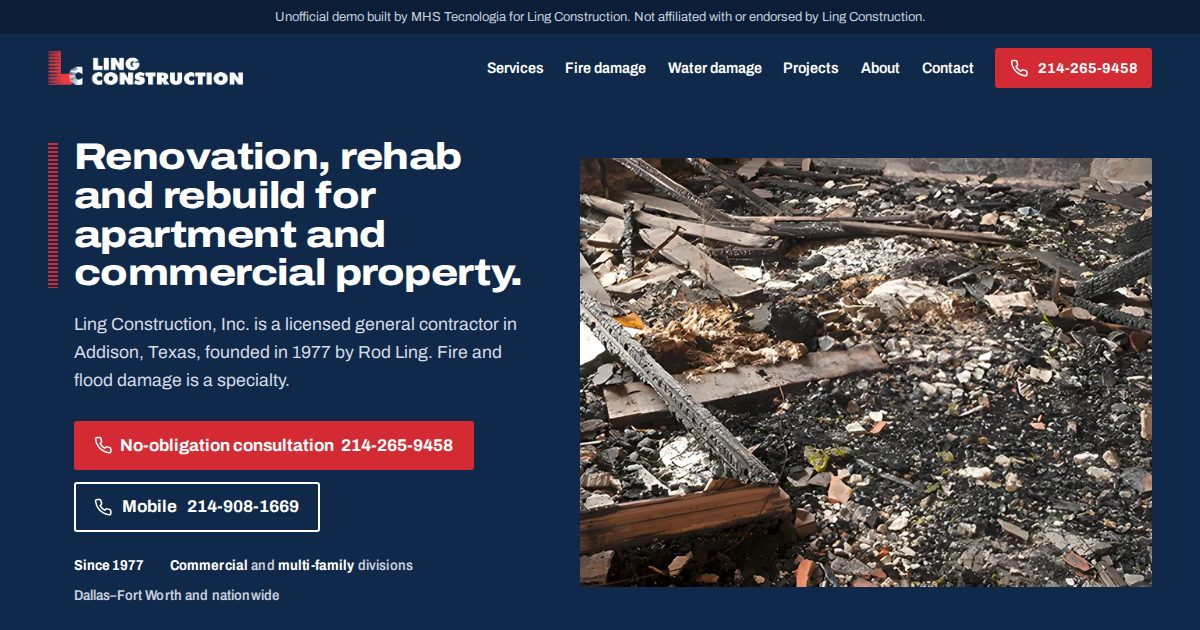
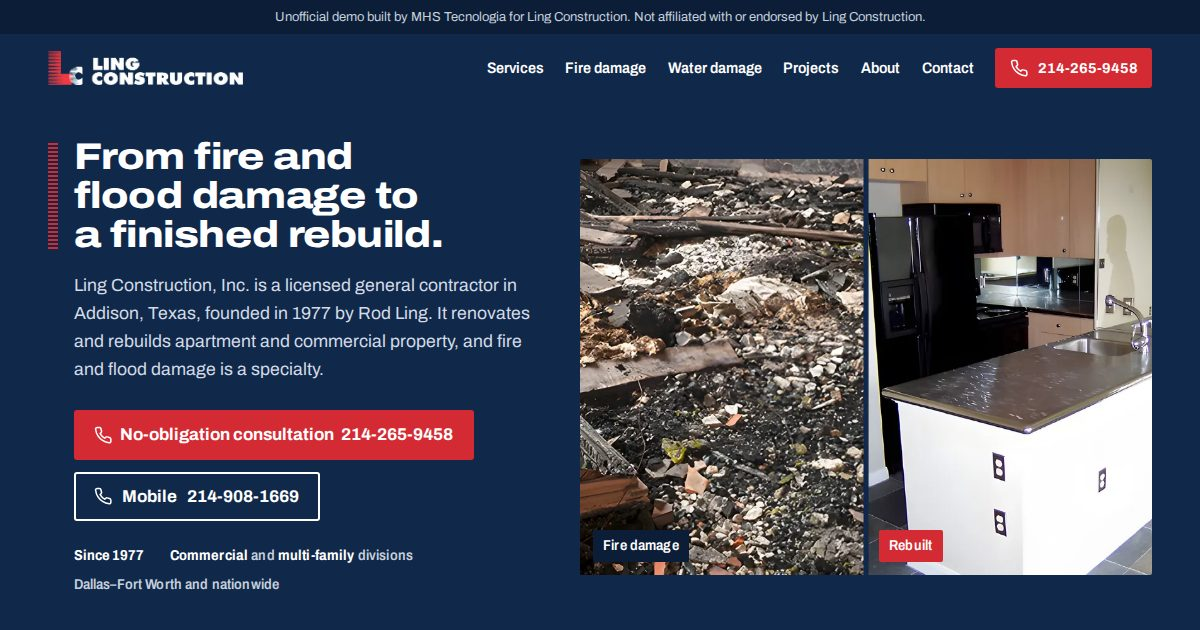
Previews: 86 ativos

diff --git a/ling-construction-addison-tx/index.html b/ling-construction-addison-tx/index.html
@@ -10,7 +10,7 @@
 <meta name="description" content="Licensed general contracting and renovation in Dallas–Fort Worth since 1977: commercial and multi-family rehab, fire and flood damage restoration.">
 <link rel="preload" as="font" type="font/woff2" href="fonts/archivo.woff2" crossorigin>
 <link rel="preload" as="image" media="(max-width: 960px)" href="img/hero-m-800.webp" imagesrcset="img/hero-m-600.webp 600w, img/hero-m-800.webp 800w" imagesizes="100vw" fetchpriority="high">
-<link rel="preload" as="image" media="(min-width: 961px)" href="img/hero-960.webp" imagesrcset="img/hero-800.webp 800w, img/hero-960.webp 960w" imagesizes="42rem" fetchpriority="high">
+<link rel="preload" as="image" media="(min-width: 961px)" href="img/hero-908.webp" imagesrcset="img/hero-640.webp 640w, img/hero-908.webp 908w" imagesizes="42rem" fetchpriority="high">
 <style>
 @font-face { font-family: "Archivo"; font-weight: 100 900; font-stretch: 62% 125%; font-display: swap; src: url(fonts/archivo.woff2) format("woff2"); }
 
@@ -70,14 +70,17 @@ p { max-width: 64ch; }
 .hero .wrap { display: grid; grid-template-columns: minmax(0, 11fr) minmax(0, 13fr); grid-template-areas: "h fig" "c fig"; column-gap: clamp(1.5rem, 4vw, 3.5rem); row-gap: 0; align-items: center; }
 .hero-h { grid-area: h; align-self: end; position: relative; padding-left: 1.6rem; }
 .hero-h::before { content: ""; position: absolute; left: 0; top: .3rem; bottom: .3rem; width: .6rem; background: var(--stripes); }
-.hero-fig { grid-area: fig; }
+.hero-fig { grid-area: fig; position: relative; }
+.hero-fig .tag { position: absolute; bottom: .8rem; background: var(--navy-2); color: #fff; padding: .3rem .65rem; border-radius: 2px; }
+.hero-fig .tag.l { left: .8rem; }
+.hero-fig .tag.r { left: calc(50% + .8rem); background: var(--red); }
 .hero-copy { grid-area: c; align-self: start; }
 .btn.wrapme { flex-wrap: wrap; text-align: center; column-gap: .45rem; }
 .hero-copy { position: relative; padding-left: 1.6rem; }
 .hero h1 { font-size: clamp(2rem, 3.1vw, 2.75rem); }
 .lede { margin-top: 1.1rem; color: #d3dbe6; font-size: 1.1rem; }
 .ctas { display: flex; flex-wrap: wrap; gap: .75rem; margin-top: 1.6rem; }
-.hero-fig img { width: 100%; aspect-ratio: 4 / 3; object-fit: cover; border-radius: 2px; }
+.hero-fig img { width: 100%; height: auto; border-radius: 2px; }
 .hero-fig figcaption { margin-top: .6rem; color: #a9b6c7; }
 .facts { display: flex; flex-wrap: wrap; gap: .4rem 1.6rem; margin-top: 1.4rem; color: #c6d0dd; padding: 0; list-style: none; }
 .facts strong { color: #fff; font-weight: 700; }
@@ -217,7 +220,9 @@ details.more-photos[open] summary { margin-bottom: .75rem; }
 
 /* Mobile call bar after the hero */
 .bar { position: fixed; left: 0; right: 0; bottom: 0; z-index: 9; display: none; gap: .5rem; padding: .6rem var(--pad) calc(.6rem + env(safe-area-inset-bottom)); background: var(--navy); box-shadow: 0 -1px 0 var(--navy-3); }
-.bar .btn { flex: 1; min-height: 2.9rem; font-size: .9rem; padding: .5rem .6rem; line-height: 1.2; }
+.bar .btn { flex: 1; min-height: 2.9rem; font-size: .95rem; padding: .5rem .6rem; line-height: 1.2; white-space: nowrap; gap: .45rem; }
+.bar .bar-s { display: none; }
+@media (max-width: 480px) { .bar .bar-l { display: none; } .bar .bar-s { display: inline; } }
 
 @media (max-width: 960px) {
   .nav > a:not(.btn) { display: none; }
@@ -300,12 +305,12 @@ details.more-photos[open] summary { margin-bottom: .75rem; }
 <main id="main">
 <section class="hero" data-bar>
   <div class="wrap">
-    <h1 class="hero-h">Renovation, rehab and rebuild for apartment and commercial property.</h1>
+    <h1 class="hero-h">From fire and flood damage to a finished rebuild.</h1>
     <figure class="hero-fig">
-      <picture><source media="(max-width: 960px)" srcset="img/hero-m-600.webp 600w, img/hero-m-800.webp 800w" sizes="100vw" width="800" height="500"><img src="img/hero-800.webp" srcset="img/hero-800.webp 800w, img/hero-960.webp 960w" sizes="(max-width: 960px) 100vw, 42rem" width="960" height="660" alt="Charred framing and debris after a fire, from Ling Construction’s fire damage page" fetchpriority="high"></picture>
+      <picture><source media="(max-width: 960px)" srcset="img/hero-m-600.webp 600w, img/hero-m-800.webp 800w" sizes="100vw" width="800" height="500"><img src="img/hero-640.webp" srcset="img/hero-640.webp 640w, img/hero-908.webp 908w" sizes="(max-width: 960px) 100vw, 42rem" width="908" height="660" alt="Left, charred debris after a fire. Right, a rebuilt kitchen. Two photos from Ling Construction’s website." fetchpriority="high"></picture><span class="tag l small" aria-hidden="true">Fire damage</span><span class="tag r small" aria-hidden="true">Rebuilt</span>
     </figure>
     <div class="hero-copy">
-      <p class="lede">Ling Construction, Inc. is a licensed general contractor in Addison, Texas, founded in 1977 by Rod Ling. Fire and flood damage is a specialty.</p>
+      <p class="lede">Ling Construction, Inc. is a licensed general contractor in Addison, Texas, founded in 1977 by Rod Ling. It renovates and rebuilds apartment and commercial property, and fire and flood damage is a specialty.</p>
       <div class="ctas"><a class="btn wrapme" href="tel:+12142659458"><svg viewBox="0 0 24 24" aria-hidden="true" fill="none" stroke="currentColor" stroke-width="2" stroke-linecap="round" stroke-linejoin="round"><path d="M22 16.9v3a2 2 0 0 1-2.2 2 19.8 19.8 0 0 1-8.6-3.1 19.5 19.5 0 0 1-6-6A19.8 19.8 0 0 1 2.1 4.2 2 2 0 0 1 4.1 2h3a2 2 0 0 1 2 1.7c.1 1 .4 1.9.7 2.8a2 2 0 0 1-.5 2.1L8 9.9a16 16 0 0 0 6 6l1.3-1.3a2 2 0 0 1 2.1-.4c.9.3 1.8.6 2.8.7a2 2 0 0 1 1.7 2z"/></svg><span>No-obligation consultation</span> <span class="num">214-265-9458</span></a><a class="btn line" href="tel:+12149081669"><svg viewBox="0 0 24 24" aria-hidden="true" fill="none" stroke="currentColor" stroke-width="2" stroke-linecap="round" stroke-linejoin="round"><path d="M22 16.9v3a2 2 0 0 1-2.2 2 19.8 19.8 0 0 1-8.6-3.1 19.5 19.5 0 0 1-6-6A19.8 19.8 0 0 1 2.1 4.2 2 2 0 0 1 4.1 2h3a2 2 0 0 1 2 1.7c.1 1 .4 1.9.7 2.8a2 2 0 0 1-.5 2.1L8 9.9a16 16 0 0 0 6 6l1.3-1.3a2 2 0 0 1 2.1-.4c.9.3 1.8.6 2.8.7a2 2 0 0 1 1.7 2z"/></svg>Mobile <span class="num">214-908-1669</span></a></div>
       <ul class="facts small"><li><strong>Since 1977</strong></li><li><strong>Commercial</strong> and <strong>multi-family</strong> divisions</li><li>Dallas–Fort Worth and nationwide</li></ul>
     </div>
@@ -469,7 +474,7 @@ details.more-photos[open] summary { margin-bottom: .75rem; }
     <p class="legal">Unofficial demo built by MHS Tecnologia, not affiliated with or endorsed by Ling Construction. Text and photos come from Ling Construction’s public website. Removed on request: <a href="mailto:contato@mhstecnologia.com.br">contato@mhstecnologia.com.br</a></p>
   </div>
 </footer>
-<div class="bar" id="bar"><a class="btn" href="tel:+12142659458"><svg viewBox="0 0 24 24" aria-hidden="true" fill="none" stroke="currentColor" stroke-width="2" stroke-linecap="round" stroke-linejoin="round"><path d="M22 16.9v3a2 2 0 0 1-2.2 2 19.8 19.8 0 0 1-8.6-3.1 19.5 19.5 0 0 1-6-6A19.8 19.8 0 0 1 2.1 4.2 2 2 0 0 1 4.1 2h3a2 2 0 0 1 2 1.7c.1 1 .4 1.9.7 2.8a2 2 0 0 1-.5 2.1L8 9.9a16 16 0 0 0 6 6l1.3-1.3a2 2 0 0 1 2.1-.4c.9.3 1.8.6 2.8.7a2 2 0 0 1 1.7 2z"/></svg><span>No-obligation consultation <span class="num">214-265-9458</span></span></a><a class="btn line" href="mailto:rling@lingconstructioninc.com" style="color:#fff;flex:0 0 3.2rem" aria-label="Send an email"><svg viewBox="0 0 24 24" aria-hidden="true" fill="none" stroke="currentColor" stroke-width="2" stroke-linecap="round" stroke-linejoin="round"><rect x="2" y="4" width="20" height="16" rx="2"/><path d="m22 6-10 7L2 6"/></svg></a></div>
+<div class="bar" id="bar"><a class="btn" href="tel:+12142659458" aria-label="Call for a no-obligation consultation, 214-265-9458"><svg viewBox="0 0 24 24" aria-hidden="true" fill="none" stroke="currentColor" stroke-width="2" stroke-linecap="round" stroke-linejoin="round"><path d="M22 16.9v3a2 2 0 0 1-2.2 2 19.8 19.8 0 0 1-8.6-3.1 19.5 19.5 0 0 1-6-6A19.8 19.8 0 0 1 2.1 4.2 2 2 0 0 1 4.1 2h3a2 2 0 0 1 2 1.7c.1 1 .4 1.9.7 2.8a2 2 0 0 1-.5 2.1L8 9.9a16 16 0 0 0 6 6l1.3-1.3a2 2 0 0 1 2.1-.4c.9.3 1.8.6 2.8.7a2 2 0 0 1 1.7 2z"/></svg><span class="bar-l">No-obligation consultation</span><span class="bar-s">Consultation</span> <span class="num">214-265-9458</span></a><a class="btn line" href="mailto:rling@lingconstructioninc.com" style="color:#fff;flex:0 0 3.2rem" aria-label="Send an email"><svg viewBox="0 0 24 24" aria-hidden="true" fill="none" stroke="currentColor" stroke-width="2" stroke-linecap="round" stroke-linejoin="round"><rect x="2" y="4" width="20" height="16" rx="2"/><path d="m22 6-10 7L2 6"/></svg></a></div>
 <script>
 (function(){var d=document.documentElement;d.className+=' js';
 var bar=document.getElementById('bar'),t=document.querySelector('[data-bar]');

diff --git a/ling-construction-addison-tx/about.html b/ling-construction-addison-tx/about.html
@@ -69,14 +69,17 @@ p { max-width: 64ch; }
 .hero .wrap { display: grid; grid-template-columns: minmax(0, 11fr) minmax(0, 13fr); grid-template-areas: "h fig" "c fig"; column-gap: clamp(1.5rem, 4vw, 3.5rem); row-gap: 0; align-items: center; }
 .hero-h { grid-area: h; align-self: end; position: relative; padding-left: 1.6rem; }
 .hero-h::before { content: ""; position: absolute; left: 0; top: .3rem; bottom: .3rem; width: .6rem; background: var(--stripes); }
-.hero-fig { grid-area: fig; }
+.hero-fig { grid-area: fig; position: relative; }
+.hero-fig .tag { position: absolute; bottom: .8rem; background: var(--navy-2); color: #fff; padding: .3rem .65rem; border-radius: 2px; }
+.hero-fig .tag.l { left: .8rem; }
+.hero-fig .tag.r { left: calc(50% + .8rem); background: var(--red); }
 .hero-copy { grid-area: c; align-self: start; }
 .btn.wrapme { flex-wrap: wrap; text-align: center; column-gap: .45rem; }
 .hero-copy { position: relative; padding-left: 1.6rem; }
 .hero h1 { font-size: clamp(2rem, 3.1vw, 2.75rem); }
 .lede { margin-top: 1.1rem; color: #d3dbe6; font-size: 1.1rem; }
 .ctas { display: flex; flex-wrap: wrap; gap: .75rem; margin-top: 1.6rem; }
-.hero-fig img { width: 100%; aspect-ratio: 4 / 3; object-fit: cover; border-radius: 2px; }
+.hero-fig img { width: 100%; height: auto; border-radius: 2px; }
 .hero-fig figcaption { margin-top: .6rem; color: #a9b6c7; }
 .facts { display: flex; flex-wrap: wrap; gap: .4rem 1.6rem; margin-top: 1.4rem; color: #c6d0dd; padding: 0; list-style: none; }
 .facts strong { color: #fff; font-weight: 700; }
@@ -216,7 +219,9 @@ details.more-photos[open] summary { margin-bottom: .75rem; }
 
 /* Mobile call bar after the hero */
 .bar { position: fixed; left: 0; right: 0; bottom: 0; z-index: 9; display: none; gap: .5rem; padding: .6rem var(--pad) calc(.6rem + env(safe-area-inset-bottom)); background: var(--navy); box-shadow: 0 -1px 0 var(--navy-3); }
-.bar .btn { flex: 1; min-height: 2.9rem; font-size: .9rem; padding: .5rem .6rem; line-height: 1.2; }
+.bar .btn { flex: 1; min-height: 2.9rem; font-size: .95rem; padding: .5rem .6rem; line-height: 1.2; white-space: nowrap; gap: .45rem; }
+.bar .bar-s { display: none; }
+@media (max-width: 480px) { .bar .bar-l { display: none; } .bar .bar-s { display: inline; } }
 
 @media (max-width: 960px) {
   .nav > a:not(.btn) { display: none; }
@@ -351,7 +356,7 @@ details.more-photos[open] summary { margin-bottom: .75rem; }
     <p class="legal">Unofficial demo built by MHS Tecnologia, not affiliated with or endorsed by Ling Construction. Text and photos come from Ling Construction’s public website. Removed on request: <a href="mailto:contato@mhstecnologia.com.br">contato@mhstecnologia.com.br</a></p>
   </div>
 </footer>
-<div class="bar" id="bar"><a class="btn" href="tel:+12142659458"><svg viewBox="0 0 24 24" aria-hidden="true" fill="none" stroke="currentColor" stroke-width="2" stroke-linecap="round" stroke-linejoin="round"><path d="M22 16.9v3a2 2 0 0 1-2.2 2 19.8 19.8 0 0 1-8.6-3.1 19.5 19.5 0 0 1-6-6A19.8 19.8 0 0 1 2.1 4.2 2 2 0 0 1 4.1 2h3a2 2 0 0 1 2 1.7c.1 1 .4 1.9.7 2.8a2 2 0 0 1-.5 2.1L8 9.9a16 16 0 0 0 6 6l1.3-1.3a2 2 0 0 1 2.1-.4c.9.3 1.8.6 2.8.7a2 2 0 0 1 1.7 2z"/></svg><span>No-obligation consultation <span class="num">214-265-9458</span></span></a><a class="btn line" href="mailto:rling@lingconstructioninc.com" style="color:#fff;flex:0 0 3.2rem" aria-label="Send an email"><svg viewBox="0 0 24 24" aria-hidden="true" fill="none" stroke="currentColor" stroke-width="2" stroke-linecap="round" stroke-linejoin="round"><rect x="2" y="4" width="20" height="16" rx="2"/><path d="m22 6-10 7L2 6"/></svg></a></div>
+<div class="bar" id="bar"><a class="btn" href="tel:+12142659458" aria-label="Call for a no-obligation consultation, 214-265-9458"><svg viewBox="0 0 24 24" aria-hidden="true" fill="none" stroke="currentColor" stroke-width="2" stroke-linecap="round" stroke-linejoin="round"><path d="M22 16.9v3a2 2 0 0 1-2.2 2 19.8 19.8 0 0 1-8.6-3.1 19.5 19.5 0 0 1-6-6A19.8 19.8 0 0 1 2.1 4.2 2 2 0 0 1 4.1 2h3a2 2 0 0 1 2 1.7c.1 1 .4 1.9.7 2.8a2 2 0 0 1-.5 2.1L8 9.9a16 16 0 0 0 6 6l1.3-1.3a2 2 0 0 1 2.1-.4c.9.3 1.8.6 2.8.7a2 2 0 0 1 1.7 2z"/></svg><span class="bar-l">No-obligation consultation</span><span class="bar-s">Consultation</span> <span class="num">214-265-9458</span></a><a class="btn line" href="mailto:rling@lingconstructioninc.com" style="color:#fff;flex:0 0 3.2rem" aria-label="Send an email"><svg viewBox="0 0 24 24" aria-hidden="true" fill="none" stroke="currentColor" stroke-width="2" stroke-linecap="round" stroke-linejoin="round"><rect x="2" y="4" width="20" height="16" rx="2"/><path d="m22 6-10 7L2 6"/></svg></a></div>
 <script>
 (function(){var d=document.documentElement;d.className+=' js';
 var bar=document.getElementById('bar'),t=document.querySelector('[data-bar]');

diff --git a/ling-construction-addison-tx/contact.html b/ling-construction-addison-tx/contact.html
@@ -69,14 +69,17 @@ p { max-width: 64ch; }
 .hero .wrap { display: grid; grid-template-columns: minmax(0, 11fr) minmax(0, 13fr); grid-template-areas: "h fig" "c fig"; column-gap: clamp(1.5rem, 4vw, 3.5rem); row-gap: 0; align-items: center; }
 .hero-h { grid-area: h; align-self: end; position: relative; padding-left: 1.6rem; }
 .hero-h::before { content: ""; position: absolute; left: 0; top: .3rem; bottom: .3rem; width: .6rem; background: var(--stripes); }
-.hero-fig { grid-area: fig; }
+.hero-fig { grid-area: fig; position: relative; }
+.hero-fig .tag { position: absolute; bottom: .8rem; background: var(--navy-2); color: #fff; padding: .3rem .65rem; border-radius: 2px; }
+.hero-fig .tag.l { left: .8rem; }
+.hero-fig .tag.r { left: calc(50% + .8rem); background: var(--red); }
 .hero-copy { grid-area: c; align-self: start; }
 .btn.wrapme { flex-wrap: wrap; text-align: center; column-gap: .45rem; }
 .hero-copy { position: relative; padding-left: 1.6rem; }
 .hero h1 { font-size: clamp(2rem, 3.1vw, 2.75rem); }
 .lede { margin-top: 1.1rem; color: #d3dbe6; font-size: 1.1rem; }
 .ctas { display: flex; flex-wrap: wrap; gap: .75rem; margin-top: 1.6rem; }
-.hero-fig img { width: 100%; aspect-ratio: 4 / 3; object-fit: cover; border-radius: 2px; }
+.hero-fig img { width: 100%; height: auto; border-radius: 2px; }
 .hero-fig figcaption { margin-top: .6rem; color: #a9b6c7; }
 .facts { display: flex; flex-wrap: wrap; gap: .4rem 1.6rem; margin-top: 1.4rem; color: #c6d0dd; padding: 0; list-style: none; }
 .facts strong { color: #fff; font-weight: 700; }
@@ -216,7 +219,9 @@ details.more-photos[open] summary { margin-bottom: .75rem; }
 
 /* Mobile call bar after the hero */
 .bar { position: fixed; left: 0; right: 0; bottom: 0; z-index: 9; display: none; gap: .5rem; padding: .6rem var(--pad) calc(.6rem + env(safe-area-inset-bottom)); background: var(--navy); box-shadow: 0 -1px 0 var(--navy-3); }
-.bar .btn { flex: 1; min-height: 2.9rem; font-size: .9rem; padding: .5rem .6rem; line-height: 1.2; }
+.bar .btn { flex: 1; min-height: 2.9rem; font-size: .95rem; padding: .5rem .6rem; line-height: 1.2; white-space: nowrap; gap: .45rem; }
+.bar .bar-s { display: none; }
+@media (max-width: 480px) { .bar .bar-l { display: none; } .bar .bar-s { display: inline; } }
 
 @media (max-width: 960px) {
   .nav > a:not(.btn) { display: none; }
@@ -334,7 +339,7 @@ details.more-photos[open] summary { margin-bottom: .75rem; }
     <p class="legal">Unofficial demo built by MHS Tecnologia, not affiliated with or endorsed by Ling Construction. Text and photos come from Ling Construction’s public website. Removed on request: <a href="mailto:contato@mhstecnologia.com.br">contato@mhstecnologia.com.br</a></p>
   </div>
 </footer>
-<div class="bar" id="bar"><a class="btn" href="tel:+12142659458"><svg viewBox="0 0 24 24" aria-hidden="true" fill="none" stroke="currentColor" stroke-width="2" stroke-linecap="round" stroke-linejoin="round"><path d="M22 16.9v3a2 2 0 0 1-2.2 2 19.8 19.8 0 0 1-8.6-3.1 19.5 19.5 0 0 1-6-6A19.8 19.8 0 0 1 2.1 4.2 2 2 0 0 1 4.1 2h3a2 2 0 0 1 2 1.7c.1 1 .4 1.9.7 2.8a2 2 0 0 1-.5 2.1L8 9.9a16 16 0 0 0 6 6l1.3-1.3a2 2 0 0 1 2.1-.4c.9.3 1.8.6 2.8.7a2 2 0 0 1 1.7 2z"/></svg><span>No-obligation consultation <span class="num">214-265-9458</span></span></a><a class="btn line" href="mailto:rling@lingconstructioninc.com" style="color:#fff;flex:0 0 3.2rem" aria-label="Send an email"><svg viewBox="0 0 24 24" aria-hidden="true" fill="none" stroke="currentColor" stroke-width="2" stroke-linecap="round" stroke-linejoin="round"><rect x="2" y="4" width="20" height="16" rx="2"/><path d="m22 6-10 7L2 6"/></svg></a></div>
+<div class="bar" id="bar"><a class="btn" href="tel:+12142659458" aria-label="Call for a no-obligation consultation, 214-265-9458"><svg viewBox="0 0 24 24" aria-hidden="true" fill="none" stroke="currentColor" stroke-width="2" stroke-linecap="round" stroke-linejoin="round"><path d="M22 16.9v3a2 2 0 0 1-2.2 2 19.8 19.8 0 0 1-8.6-3.1 19.5 19.5 0 0 1-6-6A19.8 19.8 0 0 1 2.1 4.2 2 2 0 0 1 4.1 2h3a2 2 0 0 1 2 1.7c.1 1 .4 1.9.7 2.8a2 2 0 0 1-.5 2.1L8 9.9a16 16 0 0 0 6 6l1.3-1.3a2 2 0 0 1 2.1-.4c.9.3 1.8.6 2.8.7a2 2 0 0 1 1.7 2z"/></svg><span class="bar-l">No-obligation consultation</span><span class="bar-s">Consultation</span> <span class="num">214-265-9458</span></a><a class="btn line" href="mailto:rling@lingconstructioninc.com" style="color:#fff;flex:0 0 3.2rem" aria-label="Send an email"><svg viewBox="0 0 24 24" aria-hidden="true" fill="none" stroke="currentColor" stroke-width="2" stroke-linecap="round" stroke-linejoin="round"><rect x="2" y="4" width="20" height="16" rx="2"/><path d="m22 6-10 7L2 6"/></svg></a></div>
 <script>
 (function(){var d=document.documentElement;d.className+=' js';
 var bar=document.getElementById('bar'),t=document.querySelector('[data-bar]');

diff --git a/ling-construction-addison-tx/fire.html b/ling-construction-addison-tx/fire.html
@@ -69,14 +69,17 @@ p { max-width: 64ch; }
 .hero .wrap { display: grid; grid-template-columns: minmax(0, 11fr) minmax(0, 13fr); grid-template-areas: "h fig" "c fig"; column-gap: clamp(1.5rem, 4vw, 3.5rem); row-gap: 0; align-items: center; }
 .hero-h { grid-area: h; align-self: end; position: relative; padding-left: 1.6rem; }
 .hero-h::before { content: ""; position: absolute; left: 0; top: .3rem; bottom: .3rem; width: .6rem; background: var(--stripes); }
-.hero-fig { grid-area: fig; }
+.hero-fig { grid-area: fig; position: relative; }
+.hero-fig .tag { position: absolute; bottom: .8rem; background: var(--navy-2); color: #fff; padding: .3rem .65rem; border-radius: 2px; }
+.hero-fig .tag.l { left: .8rem; }
+.hero-fig .tag.r { left: calc(50% + .8rem); background: var(--red); }
 .hero-copy { grid-area: c; align-self: start; }
 .btn.wrapme { flex-wrap: wrap; text-align: center; column-gap: .45rem; }
 .hero-copy { position: relative; padding-left: 1.6rem; }
 .hero h1 { font-size: clamp(2rem, 3.1vw, 2.75rem); }
 .lede { margin-top: 1.1rem; color: #d3dbe6; font-size: 1.1rem; }
 .ctas { display: flex; flex-wrap: wrap; gap: .75rem; margin-top: 1.6rem; }
-.hero-fig img { width: 100%; aspect-ratio: 4 / 3; object-fit: cover; border-radius: 2px; }
+.hero-fig img { width: 100%; height: auto; border-radius: 2px; }
 .hero-fig figcaption { margin-top: .6rem; color: #a9b6c7; }
 .facts { display: flex; flex-wrap: wrap; gap: .4rem 1.6rem; margin-top: 1.4rem; color: #c6d0dd; padding: 0; list-style: none; }
 .facts strong { color: #fff; font-weight: 700; }
@@ -216,7 +219,9 @@ details.more-photos[open] summary { margin-bottom: .75rem; }
 
 /* Mobile call bar after the hero */
 .bar { position: fixed; left: 0; right: 0; bottom: 0; z-index: 9; display: none; gap: .5rem; padding: .6rem var(--pad) calc(.6rem + env(safe-area-inset-bottom)); background: var(--navy); box-shadow: 0 -1px 0 var(--navy-3); }
-.bar .btn { flex: 1; min-height: 2.9rem; font-size: .9rem; padding: .5rem .6rem; line-height: 1.2; }
+.bar .btn { flex: 1; min-height: 2.9rem; font-size: .95rem; padding: .5rem .6rem; line-height: 1.2; white-space: nowrap; gap: .45rem; }
+.bar .bar-s { display: none; }
+@media (max-width: 480px) { .bar .bar-l { display: none; } .bar .bar-s { display: inline; } }
 
 @media (max-width: 960px) {
   .nav > a:not(.btn) { display: none; }
@@ -350,7 +355,7 @@ details.more-photos[open] summary { margin-bottom: .75rem; }
     <p class="legal">Unofficial demo built by MHS Tecnologia, not affiliated with or endorsed by Ling Construction. Text and photos come from Ling Construction’s public website. Removed on request: <a href="mailto:contato@mhstecnologia.com.br">contato@mhstecnologia.com.br</a></p>
   </div>
 </footer>
-<div class="bar" id="bar"><a class="btn" href="tel:+12142659458"><svg viewBox="0 0 24 24" aria-hidden="true" fill="none" stroke="currentColor" stroke-width="2" stroke-linecap="round" stroke-linejoin="round"><path d="M22 16.9v3a2 2 0 0 1-2.2 2 19.8 19.8 0 0 1-8.6-3.1 19.5 19.5 0 0 1-6-6A19.8 19.8 0 0 1 2.1 4.2 2 2 0 0 1 4.1 2h3a2 2 0 0 1 2 1.7c.1 1 .4 1.9.7 2.8a2 2 0 0 1-.5 2.1L8 9.9a16 16 0 0 0 6 6l1.3-1.3a2 2 0 0 1 2.1-.4c.9.3 1.8.6 2.8.7a2 2 0 0 1 1.7 2z"/></svg><span>No-obligation consultation <span class="num">214-265-9458</span></span></a><a class="btn line" href="mailto:rling@lingconstructioninc.com" style="color:#fff;flex:0 0 3.2rem" aria-label="Send an email"><svg viewBox="0 0 24 24" aria-hidden="true" fill="none" stroke="currentColor" stroke-width="2" stroke-linecap="round" stroke-linejoin="round"><rect x="2" y="4" width="20" height="16" rx="2"/><path d="m22 6-10 7L2 6"/></svg></a></div>
+<div class="bar" id="bar"><a class="btn" href="tel:+12142659458" aria-label="Call for a no-obligation consultation, 214-265-9458"><svg viewBox="0 0 24 24" aria-hidden="true" fill="none" stroke="currentColor" stroke-width="2" stroke-linecap="round" stroke-linejoin="round"><path d="M22 16.9v3a2 2 0 0 1-2.2 2 19.8 19.8 0 0 1-8.6-3.1 19.5 19.5 0 0 1-6-6A19.8 19.8 0 0 1 2.1 4.2 2 2 0 0 1 4.1 2h3a2 2 0 0 1 2 1.7c.1 1 .4 1.9.7 2.8a2 2 0 0 1-.5 2.1L8 9.9a16 16 0 0 0 6 6l1.3-1.3a2 2 0 0 1 2.1-.4c.9.3 1.8.6 2.8.7a2 2 0 0 1 1.7 2z"/></svg><span class="bar-l">No-obligation consultation</span><span class="bar-s">Consultation</span> <span class="num">214-265-9458</span></a><a class="btn line" href="mailto:rling@lingconstructioninc.com" style="color:#fff;flex:0 0 3.2rem" aria-label="Send an email"><svg viewBox="0 0 24 24" aria-hidden="true" fill="none" stroke="currentColor" stroke-width="2" stroke-linecap="round" stroke-linejoin="round"><rect x="2" y="4" width="20" height="16" rx="2"/><path d="m22 6-10 7L2 6"/></svg></a></div>
 <script>
 (function(){var d=document.documentElement;d.className+=' js';
 var bar=document.getElementById('bar'),t=document.querySelector('[data-bar]');

diff --git a/ling-construction-addison-tx/projects.html b/ling-construction-addison-tx/projects.html
@@ -69,14 +69,17 @@ p { max-width: 64ch; }
 .hero .wrap { display: grid; grid-template-columns: minmax(0, 11fr) minmax(0, 13fr); grid-template-areas: "h fig" "c fig"; column-gap: clamp(1.5rem, 4vw, 3.5rem); row-gap: 0; align-items: center; }
 .hero-h { grid-area: h; align-self: end; position: relative; padding-left: 1.6rem; }
 .hero-h::before { content: ""; position: absolute; left: 0; top: .3rem; bottom: .3rem; width: .6rem; background: var(--stripes); }
-.hero-fig { grid-area: fig; }
+.hero-fig { grid-area: fig; position: relative; }
+.hero-fig .tag { position: absolute; bottom: .8rem; background: var(--navy-2); color: #fff; padding: .3rem .65rem; border-radius: 2px; }
+.hero-fig .tag.l { left: .8rem; }
+.hero-fig .tag.r { left: calc(50% + .8rem); background: var(--red); }
 .hero-copy { grid-area: c; align-self: start; }
 .btn.wrapme { flex-wrap: wrap; text-align: center; column-gap: .45rem; }
 .hero-copy { position: relative; padding-left: 1.6rem; }
 .hero h1 { font-size: clamp(2rem, 3.1vw, 2.75rem); }
 .lede { margin-top: 1.1rem; color: #d3dbe6; font-size: 1.1rem; }
 .ctas { display: flex; flex-wrap: wrap; gap: .75rem; margin-top: 1.6rem; }
-.hero-fig img { width: 100%; aspect-ratio: 4 / 3; object-fit: cover; border-radius: 2px; }
+.hero-fig img { width: 100%; height: auto; border-radius: 2px; }
 .hero-fig figcaption { margin-top: .6rem; color: #a9b6c7; }
 .facts { display: flex; flex-wrap: wrap; gap: .4rem 1.6rem; margin-top: 1.4rem; color: #c6d0dd; padding: 0; list-style: none; }
 .facts strong { color: #fff; font-weight: 700; }
@@ -216,7 +219,9 @@ details.more-photos[open] summary { margin-bottom: .75rem; }
 
 /* Mobile call bar after the hero */
 .bar { position: fixed; left: 0; right: 0; bottom: 0; z-index: 9; display: none; gap: .5rem; padding: .6rem var(--pad) calc(.6rem + env(safe-area-inset-bottom)); background: var(--navy); box-shadow: 0 -1px 0 var(--navy-3); }
-.bar .btn { flex: 1; min-height: 2.9rem; font-size: .9rem; padding: .5rem .6rem; line-height: 1.2; }
+.bar .btn { flex: 1; min-height: 2.9rem; font-size: .95rem; padding: .5rem .6rem; line-height: 1.2; white-space: nowrap; gap: .45rem; }
+.bar .bar-s { display: none; }
+@media (max-width: 480px) { .bar .bar-l { display: none; } .bar .bar-s { display: inline; } }
 
 @media (max-width: 960px) {
   .nav > a:not(.btn) { display: none; }
@@ -379,7 +384,7 @@ details.more-photos[open] summary { margin-bottom: .75rem; }
     <p class="legal">Unofficial demo built by MHS Tecnologia, not affiliated with or endorsed by Ling Construction. Text and photos come from Ling Construction’s public website. Removed on request: <a href="mailto:contato@mhstecnologia.com.br">contato@mhstecnologia.com.br</a></p>
   </div>
 </footer>
-<div class="bar" id="bar"><a class="btn" href="tel:+12142659458"><svg viewBox="0 0 24 24" aria-hidden="true" fill="none" stroke="currentColor" stroke-width="2" stroke-linecap="round" stroke-linejoin="round"><path d="M22 16.9v3a2 2 0 0 1-2.2 2 19.8 19.8 0 0 1-8.6-3.1 19.5 19.5 0 0 1-6-6A19.8 19.8 0 0 1 2.1 4.2 2 2 0 0 1 4.1 2h3a2 2 0 0 1 2 1.7c.1 1 .4 1.9.7 2.8a2 2 0 0 1-.5 2.1L8 9.9a16 16 0 0 0 6 6l1.3-1.3a2 2 0 0 1 2.1-.4c.9.3 1.8.6 2.8.7a2 2 0 0 1 1.7 2z"/></svg><span>No-obligation consultation <span class="num">214-265-9458</span></span></a><a class="btn line" href="mailto:rling@lingconstructioninc.com" style="color:#fff;flex:0 0 3.2rem" aria-label="Send an email"><svg viewBox="0 0 24 24" aria-hidden="true" fill="none" stroke="currentColor" stroke-width="2" stroke-linecap="round" stroke-linejoin="round"><rect x="2" y="4" width="20" height="16" rx="2"/><path d="m22 6-10 7L2 6"/></svg></a></div>
+<div class="bar" id="bar"><a class="btn" href="tel:+12142659458" aria-label="Call for a no-obligation consultation, 214-265-9458"><svg viewBox="0 0 24 24" aria-hidden="true" fill="none" stroke="currentColor" stroke-width="2" stroke-linecap="round" stroke-linejoin="round"><path d="M22 16.9v3a2 2 0 0 1-2.2 2 19.8 19.8 0 0 1-8.6-3.1 19.5 19.5 0 0 1-6-6A19.8 19.8 0 0 1 2.1 4.2 2 2 0 0 1 4.1 2h3a2 2 0 0 1 2 1.7c.1 1 .4 1.9.7 2.8a2 2 0 0 1-.5 2.1L8 9.9a16 16 0 0 0 6 6l1.3-1.3a2 2 0 0 1 2.1-.4c.9.3 1.8.6 2.8.7a2 2 0 0 1 1.7 2z"/></svg><span class="bar-l">No-obligation consultation</span><span class="bar-s">Consultation</span> <span class="num">214-265-9458</span></a><a class="btn line" href="mailto:rling@lingconstructioninc.com" style="color:#fff;flex:0 0 3.2rem" aria-label="Send an email"><svg viewBox="0 0 24 24" aria-hidden="true" fill="none" stroke="currentColor" stroke-width="2" stroke-linecap="round" stroke-linejoin="round"><rect x="2" y="4" width="20" height="16" rx="2"/><path d="m22 6-10 7L2 6"/></svg></a></div>
 <script>
 (function(){var d=document.documentElement;d.className+=' js';
 var bar=document.getElementById('bar'),t=document.querySelector('[data-bar]');

diff --git a/ling-construction-addison-tx/services.html b/ling-construction-addison-tx/services.html
@@ -69,14 +69,17 @@ p { max-width: 64ch; }
 .hero .wrap { display: grid; grid-template-columns: minmax(0, 11fr) minmax(0, 13fr); grid-template-areas: "h fig" "c fig"; column-gap: clamp(1.5rem, 4vw, 3.5rem); row-gap: 0; align-items: center; }
 .hero-h { grid-area: h; align-self: end; position: relative; padding-left: 1.6rem; }
 .hero-h::before { content: ""; position: absolute; left: 0; top: .3rem; bottom: .3rem; width: .6rem; background: var(--stripes); }
-.hero-fig { grid-area: fig; }
+.hero-fig { grid-area: fig; position: relative; }
+.hero-fig .tag { position: absolute; bottom: .8rem; background: var(--navy-2); color: #fff; padding: .3rem .65rem; border-radius: 2px; }
+.hero-fig .tag.l { left: .8rem; }
+.hero-fig .tag.r { left: calc(50% + .8rem); background: var(--red); }
 .hero-copy { grid-area: c; align-self: start; }
 .btn.wrapme { flex-wrap: wrap; text-align: center; column-gap: .45rem; }
 .hero-copy { position: relative; padding-left: 1.6rem; }
 .hero h1 { font-size: clamp(2rem, 3.1vw, 2.75rem); }
 .lede { margin-top: 1.1rem; color: #d3dbe6; font-size: 1.1rem; }
 .ctas { display: flex; flex-wrap: wrap; gap: .75rem; margin-top: 1.6rem; }
-.hero-fig img { width: 100%; aspect-ratio: 4 / 3; object-fit: cover; border-radius: 2px; }
+.hero-fig img { width: 100%; height: auto; border-radius: 2px; }
 .hero-fig figcaption { margin-top: .6rem; color: #a9b6c7; }
 .facts { display: flex; flex-wrap: wrap; gap: .4rem 1.6rem; margin-top: 1.4rem; color: #c6d0dd; padding: 0; list-style: none; }
 .facts strong { color: #fff; font-weight: 700; }
@@ -216,7 +219,9 @@ details.more-photos[open] summary { margin-bottom: .75rem; }
 
 /* Mobile call bar after the hero */
 .bar { position: fixed; left: 0; right: 0; bottom: 0; z-index: 9; display: none; gap: .5rem; padding: .6rem var(--pad) calc(.6rem + env(safe-area-inset-bottom)); background: var(--navy); box-shadow: 0 -1px 0 var(--navy-3); }
-.bar .btn { flex: 1; min-height: 2.9rem; font-size: .9rem; padding: .5rem .6rem; line-height: 1.2; }
+.bar .btn { flex: 1; min-height: 2.9rem; font-size: .95rem; padding: .5rem .6rem; line-height: 1.2; white-space: nowrap; gap: .45rem; }
+.bar .bar-s { display: none; }
+@media (max-width: 480px) { .bar .bar-l { display: none; } .bar .bar-s { display: inline; } }
 
 @media (max-width: 960px) {
   .nav > a:not(.btn) { display: none; }
@@ -366,7 +371,7 @@ details.more-photos[open] summary { margin-bottom: .75rem; }
     <p class="legal">Unofficial demo built by MHS Tecnologia, not affiliated with or endorsed by Ling Construction. Text and photos come from Ling Construction’s public website. Removed on request: <a href="mailto:contato@mhstecnologia.com.br">contato@mhstecnologia.com.br</a></p>
   </div>
 </footer>
-<div class="bar" id="bar"><a class="btn" href="tel:+12142659458"><svg viewBox="0 0 24 24" aria-hidden="true" fill="none" stroke="currentColor" stroke-width="2" stroke-linecap="round" stroke-linejoin="round"><path d="M22 16.9v3a2 2 0 0 1-2.2 2 19.8 19.8 0 0 1-8.6-3.1 19.5 19.5 0 0 1-6-6A19.8 19.8 0 0 1 2.1 4.2 2 2 0 0 1 4.1 2h3a2 2 0 0 1 2 1.7c.1 1 .4 1.9.7 2.8a2 2 0 0 1-.5 2.1L8 9.9a16 16 0 0 0 6 6l1.3-1.3a2 2 0 0 1 2.1-.4c.9.3 1.8.6 2.8.7a2 2 0 0 1 1.7 2z"/></svg><span>No-obligation consultation <span class="num">214-265-9458</span></span></a><a class="btn line" href="mailto:rling@lingconstructioninc.com" style="color:#fff;flex:0 0 3.2rem" aria-label="Send an email"><svg viewBox="0 0 24 24" aria-hidden="true" fill="none" stroke="currentColor" stroke-width="2" stroke-linecap="round" stroke-linejoin="round"><rect x="2" y="4" width="20" height="16" rx="2"/><path d="m22 6-10 7L2 6"/></svg></a></div>
+<div class="bar" id="bar"><a class="btn" href="tel:+12142659458" aria-label="Call for a no-obligation consultation, 214-265-9458"><svg viewBox="0 0 24 24" aria-hidden="true" fill="none" stroke="currentColor" stroke-width="2" stroke-linecap="round" stroke-linejoin="round"><path d="M22 16.9v3a2 2 0 0 1-2.2 2 19.8 19.8 0 0 1-8.6-3.1 19.5 19.5 0 0 1-6-6A19.8 19.8 0 0 1 2.1 4.2 2 2 0 0 1 4.1 2h3a2 2 0 0 1 2 1.7c.1 1 .4 1.9.7 2.8a2 2 0 0 1-.5 2.1L8 9.9a16 16 0 0 0 6 6l1.3-1.3a2 2 0 0 1 2.1-.4c.9.3 1.8.6 2.8.7a2 2 0 0 1 1.7 2z"/></svg><span class="bar-l">No-obligation consultation</span><span class="bar-s">Consultation</span> <span class="num">214-265-9458</span></a><a class="btn line" href="mailto:rling@lingconstructioninc.com" style="color:#fff;flex:0 0 3.2rem" aria-label="Send an email"><svg viewBox="0 0 24 24" aria-hidden="true" fill="none" stroke="currentColor" stroke-width="2" stroke-linecap="round" stroke-linejoin="round"><rect x="2" y="4" width="20" height="16" rx="2"/><path d="m22 6-10 7L2 6"/></svg></a></div>
 <script>
 (function(){var d=document.documentElement;d.className+=' js';
 var bar=document.getElementById('bar'),t=document.querySelector('[data-bar]');

diff --git a/ling-construction-addison-tx/water.html b/ling-construction-addison-tx/water.html
@@ -69,14 +69,17 @@ p { max-width: 64ch; }
 .hero .wrap { display: grid; grid-template-columns: minmax(0, 11fr) minmax(0, 13fr); grid-template-areas: "h fig" "c fig"; column-gap: clamp(1.5rem, 4vw, 3.5rem); row-gap: 0; align-items: center; }
 .hero-h { grid-area: h; align-self: end; position: relative; padding-left: 1.6rem; }
 .hero-h::before { content: ""; position: absolute; left: 0; top: .3rem; bottom: .3rem; width: .6rem; background: var(--stripes); }
-.hero-fig { grid-area: fig; }
+.hero-fig { grid-area: fig; position: relative; }
+.hero-fig .tag { position: absolute; bottom: .8rem; background: var(--navy-2); color: #fff; padding: .3rem .65rem; border-radius: 2px; }
+.hero-fig .tag.l { left: .8rem; }
+.hero-fig .tag.r { left: calc(50% + .8rem); background: var(--red); }
 .hero-copy { grid-area: c; align-self: start; }
 .btn.wrapme { flex-wrap: wrap; text-align: center; column-gap: .45rem; }
 .hero-copy { position: relative; padding-left: 1.6rem; }
 .hero h1 { font-size: clamp(2rem, 3.1vw, 2.75rem); }
 .lede { margin-top: 1.1rem; color: #d3dbe6; font-size: 1.1rem; }
 .ctas { display: flex; flex-wrap: wrap; gap: .75rem; margin-top: 1.6rem; }
-.hero-fig img { width: 100%; aspect-ratio: 4 / 3; object-fit: cover; border-radius: 2px; }
+.hero-fig img { width: 100%; height: auto; border-radius: 2px; }
 .hero-fig figcaption { margin-top: .6rem; color: #a9b6c7; }
 .facts { display: flex; flex-wrap: wrap; gap: .4rem 1.6rem; margin-top: 1.4rem; color: #c6d0dd; padding: 0; list-style: none; }
 .facts strong { color: #fff; font-weight: 700; }
@@ -216,7 +219,9 @@ details.more-photos[open] summary { margin-bottom: .75rem; }
 
 /* Mobile call bar after the hero */
 .bar { position: fixed; left: 0; right: 0; bottom: 0; z-index: 9; display: none; gap: .5rem; padding: .6rem var(--pad) calc(.6rem + env(safe-area-inset-bottom)); background: var(--navy); box-shadow: 0 -1px 0 var(--navy-3); }
-.bar .btn { flex: 1; min-height: 2.9rem; font-size: .9rem; padding: .5rem .6rem; line-height: 1.2; }
+.bar .btn { flex: 1; min-height: 2.9rem; font-size: .95rem; padding: .5rem .6rem; line-height: 1.2; white-space: nowrap; gap: .45rem; }
+.bar .bar-s { display: none; }
+@media (max-width: 480px) { .bar .bar-l { display: none; } .bar .bar-s { display: inline; } }
 
 @media (max-width: 960px) {
   .nav > a:not(.btn) { display: none; }
@@ -351,7 +356,7 @@ details.more-photos[open] summary { margin-bottom: .75rem; }
     <p class="legal">Unofficial demo built by MHS Tecnologia, not affiliated with or endorsed by Ling Construction. Text and photos come from Ling Construction’s public website. Removed on request: <a href="mailto:contato@mhstecnologia.com.br">contato@mhstecnologia.com.br</a></p>
   </div>
 </footer>
-<div class="bar" id="bar"><a class="btn" href="tel:+12142659458"><svg viewBox="0 0 24 24" aria-hidden="true" fill="none" stroke="currentColor" stroke-width="2" stroke-linecap="round" stroke-linejoin="round"><path d="M22 16.9v3a2 2 0 0 1-2.2 2 19.8 19.8 0 0 1-8.6-3.1 19.5 19.5 0 0 1-6-6A19.8 19.8 0 0 1 2.1 4.2 2 2 0 0 1 4.1 2h3a2 2 0 0 1 2 1.7c.1 1 .4 1.9.7 2.8a2 2 0 0 1-.5 2.1L8 9.9a16 16 0 0 0 6 6l1.3-1.3a2 2 0 0 1 2.1-.4c.9.3 1.8.6 2.8.7a2 2 0 0 1 1.7 2z"/></svg><span>No-obligation consultation <span class="num">214-265-9458</span></span></a><a class="btn line" href="mailto:rling@lingconstructioninc.com" style="color:#fff;flex:0 0 3.2rem" aria-label="Send an email"><svg viewBox="0 0 24 24" aria-hidden="true" fill="none" stroke="currentColor" stroke-width="2" stroke-linecap="round" stroke-linejoin="round"><rect x="2" y="4" width="20" height="16" rx="2"/><path d="m22 6-10 7L2 6"/></svg></a></div>
+<div class="bar" id="bar"><a class="btn" href="tel:+12142659458" aria-label="Call for a no-obligation consultation, 214-265-9458"><svg viewBox="0 0 24 24" aria-hidden="true" fill="none" stroke="currentColor" stroke-width="2" stroke-linecap="round" stroke-linejoin="round"><path d="M22 16.9v3a2 2 0 0 1-2.2 2 19.8 19.8 0 0 1-8.6-3.1 19.5 19.5 0 0 1-6-6A19.8 19.8 0 0 1 2.1 4.2 2 2 0 0 1 4.1 2h3a2 2 0 0 1 2 1.7c.1 1 .4 1.9.7 2.8a2 2 0 0 1-.5 2.1L8 9.9a16 16 0 0 0 6 6l1.3-1.3a2 2 0 0 1 2.1-.4c.9.3 1.8.6 2.8.7a2 2 0 0 1 1.7 2z"/></svg><span class="bar-l">No-obligation consultation</span><span class="bar-s">Consultation</span> <span class="num">214-265-9458</span></a><a class="btn line" href="mailto:rling@lingconstructioninc.com" style="color:#fff;flex:0 0 3.2rem" aria-label="Send an email"><svg viewBox="0 0 24 24" aria-hidden="true" fill="none" stroke="currentColor" stroke-width="2" stroke-linecap="round" stroke-linejoin="round"><rect x="2" y="4" width="20" height="16" rx="2"/><path d="m22 6-10 7L2 6"/></svg></a></div>
 <script>
 (function(){var d=document.documentElement;d.className+=' js';
 var bar=document.getElementById('bar'),t=document.querySelector('[data-bar]');
